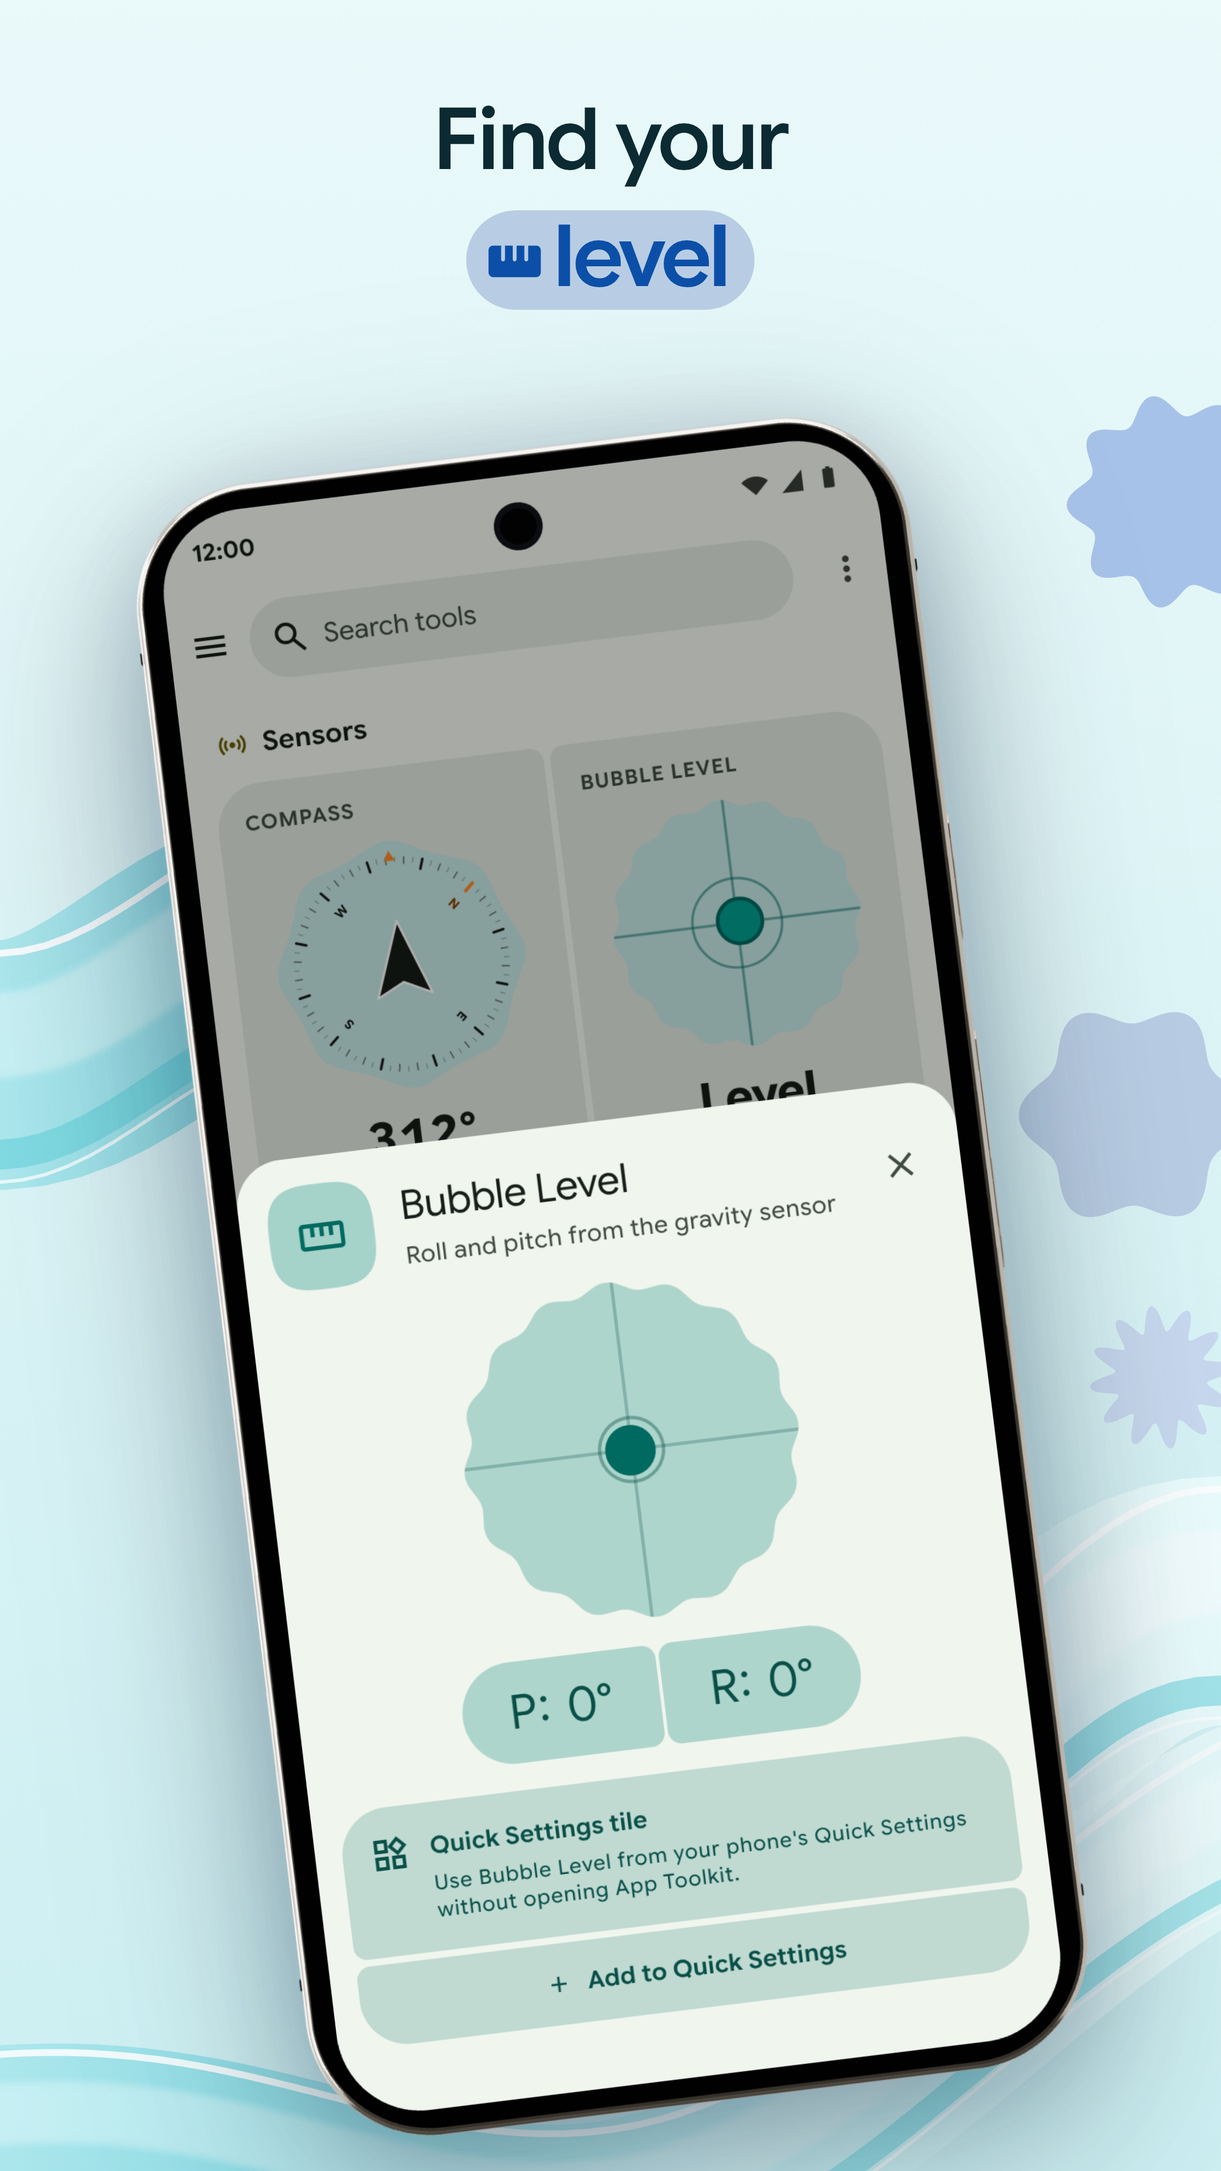
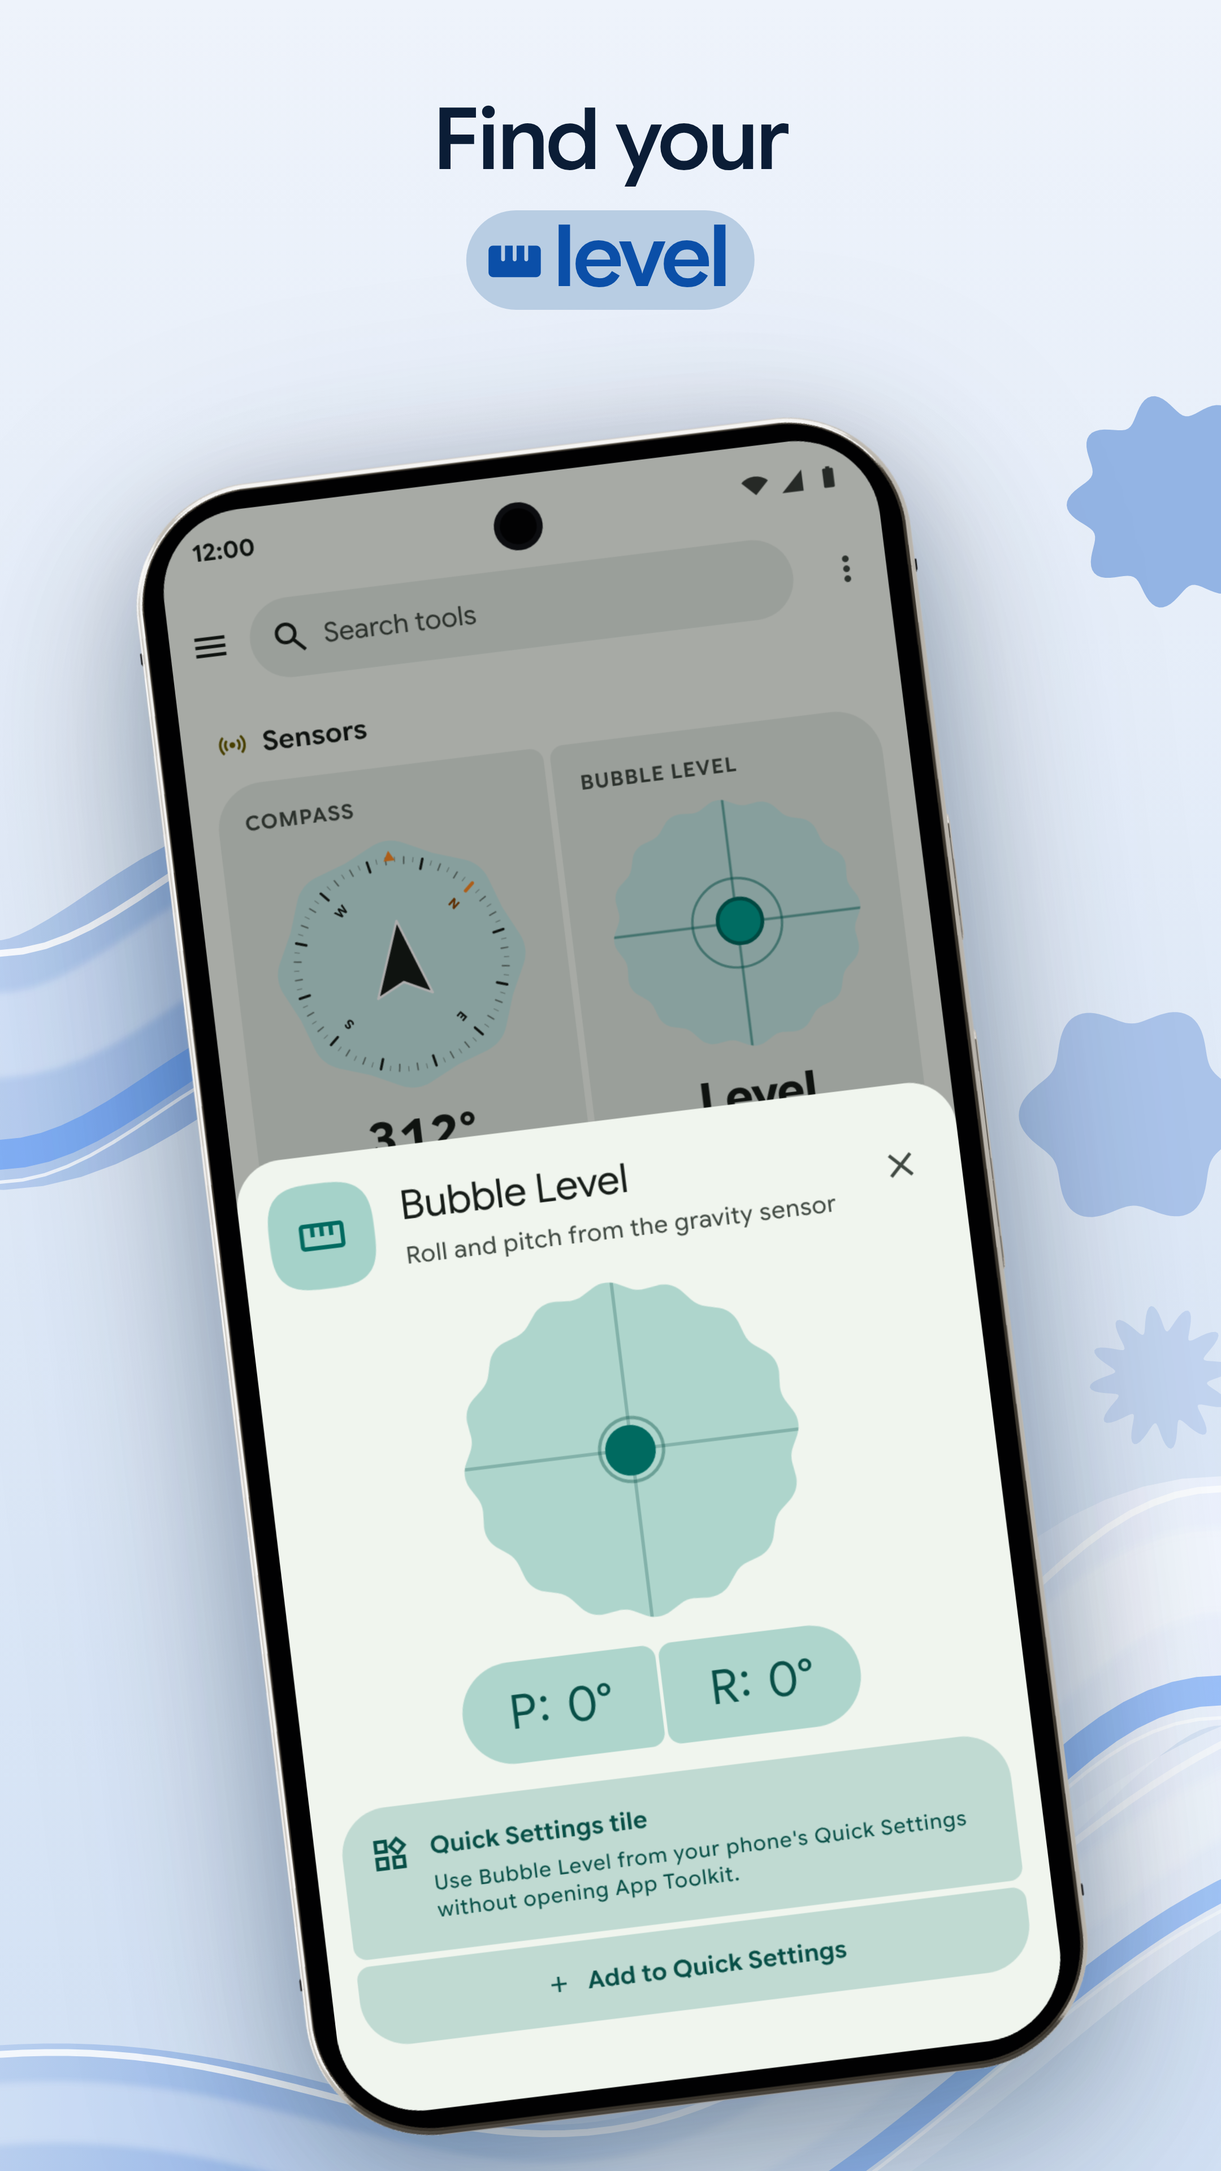
Speaker Water Eject listing: whole palette from the Water Eject sheet's blues
Move the ground, the glass ribbons, the ink, the shapes, the sound and
the feature graphic from aqua to the blue family of the Water Eject
sheet (ToolkitTileVisuals.kt's blue tool), with every campaign colour
now defined once in src/theme.ts and the verifier reading the field
from it. Re-rendered and re-verified all graphics: no hard failures,
caption contrast at least 12.5:1, interference at most 0.02%.

Claude-Session: https://claude.ai/code/session_01EEYGaFXbmvKJrEAo9apjWh

diff --git a/marketing/creative/store/google-play/listings/custom/speaker-water-eject/source/src/Glass.tsx b/marketing/creative/store/google-play/listings/custom/speaker-water-eject/source/src/Glass.tsx
@@ -1,17 +1,18 @@
 import React from "react";
 import { FADE, ribbonLines } from "./composition/ribbons";
+import { BUBBLE_TINT, FIELD, RIBBON_EDGE, RIBBON_STOPS, SHEET_BLUE, SHEET_BLUE_BRIGHT } from "./theme";
 export { ribbonLines };
 
 /** A box the ribbons fade behind, in the strip's coordinates. */
 export type TextBox = { left: number; top: number; right: number; bottom: number };
 
 /**
- * The campaign's ground: a light aqua field crossed by ribbons of liquid glass, the way Material 3's
- * own hero art draws them. Each ribbon is a wide translucent band whose colour shifts between aqua
- * and white along its length, with a bright rim and a cyan refracting edge. The ribbons are
+ * The campaign's ground: a light field in the Water Eject sheet's blues crossed by ribbons of liquid glass,
+ * the way Material 3's own hero art draws them. Each ribbon is a wide translucent band whose colour shifts
+ * between blue and white along its length, with a bright rim and a blue refracting edge. The ribbons are
  * computed across the whole strip, so every seam between two screenshots meets.
  */
-export const Glass: React.FC<{ width: number; height: number; panels: number; id?: string; text?: TextBox[]; ribbons?: boolean; field?: [string, string] }> = ({ width, height, panels, id = "g", text = [], ribbons: withRibbons = true, field = ["#EAF9FA", "#CDEFF2"] }) => {
+export const Glass: React.FC<{ width: number; height: number; panels: number; id?: string; text?: TextBox[]; ribbons?: boolean; field?: [string, string] }> = ({ width, height, panels, id = "g", text = [], ribbons: withRibbons = true, field = FIELD }) => {
   const panel = width / panels;
   const ribbons = (withRibbons ? ribbonLines(width, height, panels) : []).map((r) => ({ d: `M ${r.pts.map(([x, y]) => `${x},${y.toFixed(1)}`).join(" L ")}`, w: r.w, o: r.o }));
   return (
@@ -22,10 +23,10 @@ export const Glass: React.FC<{ width: number; height: number; panels: number; id
           <stop offset="1" stopColor={field[1]} />
         </linearGradient>
         <linearGradient id={`${id}-iris`} x1="0" y1="0" x2={panel * 1.4} y2="0" gradientUnits="userSpaceOnUse" spreadMethod="reflect">
-          <stop offset="0" stopColor="#8FE6EC" />
-          <stop offset=".45" stopColor="#F4FFFF" />
-          <stop offset=".75" stopColor="#B9EEF2" />
-          <stop offset="1" stopColor="#6FD3DE" />
+          <stop offset="0" stopColor={RIBBON_STOPS[0]} />
+          <stop offset=".45" stopColor={RIBBON_STOPS[1]} />
+          <stop offset=".75" stopColor={RIBBON_STOPS[2]} />
+          <stop offset="1" stopColor={RIBBON_STOPS[3]} />
         </linearGradient>
         <filter id={`${id}-soft`}><feGaussianBlur stdDeviation="3" /></filter>
         {text.length > 0 && (
@@ -44,9 +45,9 @@ export const Glass: React.FC<{ width: number; height: number; panels: number; id
       <g mask={text.length ? `url(#${id}-text)` : undefined}>
       {ribbons.map((r, i) => (
         <g key={i} opacity={r.o}>
-          {/* The glass band, a cyan edge where it refracts, a broad soft sheen and two sharp white rims. */}
+          {/* The glass band, a blue edge where it refracts, a broad soft sheen and two sharp white rims. */}
           <path d={r.d} fill="none" stroke={`url(#${id}-iris)`} strokeWidth={r.w} strokeLinecap="round" opacity=".8" />
-          <path d={r.d} fill="none" stroke="#3FC6D3" strokeWidth={r.w * 0.12} transform={`translate(0 ${r.w * 0.36})`} opacity=".45" />
+          <path d={r.d} fill="none" stroke={RIBBON_EDGE} strokeWidth={r.w * 0.12} transform={`translate(0 ${r.w * 0.36})`} opacity=".45" />
           <path d={r.d} fill="none" stroke="#FFFFFF" strokeWidth={r.w * 0.34} strokeLinecap="round" transform={`translate(0 ${-r.w * 0.12})`} opacity=".35" filter={`url(#${id}-soft)`} />
           <path d={r.d} fill="none" stroke="#FFFFFF" strokeWidth="6" transform={`translate(0 ${-r.w * 0.45})`} opacity=".95" />
           <path d={r.d} fill="none" stroke="#FFFFFF" strokeWidth="3" transform={`translate(0 ${r.w * 0.47})`} opacity=".8" />
@@ -67,7 +68,7 @@ export const SoundBubbles: React.FC<{ arcs: { pts: number[][]; ring: number }[];
     <defs>
       <radialGradient id="sound-bubble" cx=".5" cy=".5" r=".5">
         <stop offset=".62" stopColor="#FFFFFF" stopOpacity=".08" />
-        <stop offset=".9" stopColor="#9DBDF0" stopOpacity=".6" />
+        <stop offset=".9" stopColor={BUBBLE_TINT} stopOpacity=".6" />
         <stop offset="1" stopColor="#FFFFFF" stopOpacity=".95" />
       </radialGradient>
       <filter id="sound-glow" x="-20%" y="-20%" width="140%" height="140%"><feGaussianBlur stdDeviation="4" /></filter>
@@ -76,14 +77,14 @@ export const SoundBubbles: React.FC<{ arcs: { pts: number[][]; ring: number }[];
       const d = `M ${pts.map((p) => p.map((n) => n.toFixed(1)).join(" ")).join(" L ")}`, fade = 1 - i * 0.15;
       return (
         <g key={key} opacity={fade}>
-          <path d={d} fill="none" stroke="#2D7DF6" strokeWidth={7} strokeLinecap="round" opacity=".16" filter="url(#sound-glow)" />
-          <path d={d} fill="none" stroke="#0B4FA8" strokeWidth={Math.max(1.4, 2.6 - i * 0.3)} strokeLinecap="round" opacity=".5" />
+          <path d={d} fill="none" stroke={SHEET_BLUE_BRIGHT} strokeWidth={7} strokeLinecap="round" opacity=".16" filter="url(#sound-glow)" />
+          <path d={d} fill="none" stroke={SHEET_BLUE} strokeWidth={Math.max(1.4, 2.6 - i * 0.3)} strokeLinecap="round" opacity=".5" />
         </g>
       );
     })}
     {bubbles.map(([x, y, r], i) => (
       <g key={i}>
-        <circle cx={x} cy={y} r={r} fill="url(#sound-bubble)" stroke="#2D7DF6" strokeOpacity=".65" strokeWidth={Math.max(1.5, r * 0.09)} />
+        <circle cx={x} cy={y} r={r} fill="url(#sound-bubble)" stroke={SHEET_BLUE_BRIGHT} strokeOpacity=".65" strokeWidth={Math.max(1.5, r * 0.09)} />
         <ellipse cx={x - r * 0.36} cy={y - r * 0.4} rx={r * 0.26} ry={r * 0.16} fill="#FFFFFF" transform={`rotate(-35 ${x - r * 0.36} ${y - r * 0.4})`} />
         <path d={`M ${x + r * 0.55} ${y + r * 0.2} A ${r * 0.7} ${r * 0.7} 0 0 1 ${x + r * 0.1} ${y + r * 0.62}`} fill="none" stroke="#FFFFFF" strokeWidth={Math.max(1.2, r * 0.08)} strokeOpacity=".85" strokeLinecap="round" />
       </g>

diff --git a/marketing/creative/store/google-play/listings/custom/speaker-water-eject/source/src/FeatureGraphic.tsx b/marketing/creative/store/google-play/listings/custom/speaker-water-eject/source/src/FeatureGraphic.tsx
@@ -4,7 +4,7 @@ import { LitScreen, useFonts } from "./LitScreen";
 import { SCREENS } from "./screens";
 import { Glass, SoundBubbles } from "./Glass";
 import { STRINGS } from "./strings";
-import { FONT, INK, SHEET_BLUE, SHEET_BLUE_BRIGHT, SHEET_BLUE_CONTAINER } from "./theme";
+import { FIELD_DEEP, FONT, INK, RIBBON_STOPS, SHEET_BLUE, SHEET_BLUE_BRIGHT } from "./theme";
 
 const W = 1024, H = 500;
 /** Play may crop the edges: essential content stays inside the middle, 10% in from each side. */
@@ -40,10 +40,10 @@ const Ribbon: React.FC<{ d: string }> = ({ d }) => (
   <svg aria-hidden width={W} height={H} style={{ position: "absolute", inset: 0, pointerEvents: "none" }}>
     <defs>
       <linearGradient id="fg-ribbon" x1="0" y1="0" x2={W} y2="0" gradientUnits="userSpaceOnUse">
-        <stop offset="0" stopColor="#8FE6EC" />
-        <stop offset=".45" stopColor="#F4FFFF" />
-        <stop offset=".8" stopColor={SHEET_BLUE_CONTAINER} />
-        <stop offset="1" stopColor="#9DBDF0" />
+        <stop offset="0" stopColor={RIBBON_STOPS[0]} />
+        <stop offset=".45" stopColor={RIBBON_STOPS[1]} />
+        <stop offset=".8" stopColor={RIBBON_STOPS[2]} />
+        <stop offset="1" stopColor={RIBBON_STOPS[3]} />
       </linearGradient>
     </defs>
     <path d={d} fill="none" stroke="url(#fg-ribbon)" strokeWidth="150" strokeLinecap="round" opacity=".85" />
@@ -89,8 +89,8 @@ export const FeatureGraphic: React.FC<{ locale: string; concept?: Concept }> = (
     const textBox = { left: 230, top: 150, right: 794, bottom: 352 };
     return (
       <AbsoluteFill ref={ref} style={{ fontFamily: FONT, overflow: "hidden" }}>
-        {/* One aqua step deeper than the screenshots' ground, so the graphic holds its edge on a white page. */}
-        <Glass id="feature" width={W} height={H} panels={1} ribbons={false} field={["#D3F0F3", "#B5E4EA"]} />
+        {/* One step deeper than the screenshots' ground, so the graphic holds its edge on a white page. */}
+        <Glass id="feature" width={W} height={H} panels={1} ribbons={false} field={FIELD_DEEP} />
         <div style={{ position: "absolute", inset: 0, WebkitMaskImage: `radial-gradient(ellipse 330px 150px at 512px 250px, rgba(0,0,0,.12) 60%, #000 100%)`, maskImage: `radial-gradient(ellipse 330px 150px at 512px 250px, rgba(0,0,0,.12) 60%, #000 100%)` }}>
           <Ribbon d={ribbon} />
         </div>
@@ -107,8 +107,8 @@ export const FeatureGraphic: React.FC<{ locale: string; concept?: Concept }> = (
   const c = { x: 318, y: 250 }, d = 196;
   return (
     <AbsoluteFill ref={ref} style={{ fontFamily: FONT, overflow: "hidden" }}>
-      {/* One aqua step deeper than the screenshots' ground, so the graphic holds its edge on a white page. */}
-      <Glass id="feature" width={W} height={H} panels={1} text={[{ left: 476, top: 150, right: 900, bottom: 350 }]} field={["#D3F0F3", "#B5E4EA"]} />
+      {/* One step deeper than the screenshots' ground, so the graphic holds its edge on a white page. */}
+      <Glass id="feature" width={W} height={H} panels={1} text={[{ left: 476, top: 150, right: 900, bottom: 350 }]} field={FIELD_DEEP} />
       <div style={{ position: "absolute", inset: 0, zIndex: 1 }}>
         <SoundBubbles arcs={arcs(c.x, c.y, 180, [d / 2 + SPACE.s, d / 2 + SPACE.l, d / 2 + SPACE.xl], 46)} bubbles={[[c.x - 205, c.y - 92, 10], [c.x - 172, c.y + 118, 6], [c.x - 232, c.y + 34, 5], [c.x + 40, c.y - 150, 7]]} width={W} height={H} />
       </div>

diff --git a/marketing/creative/store/google-play/listings/custom/speaker-water-eject/source/src/theme.ts b/marketing/creative/store/google-play/listings/custom/speaker-water-eject/source/src/theme.ts
@@ -1,13 +1,23 @@
-// The Water Eject campaign: a light aqua glass ground (src/Glass.tsx) with accents in the Water Eject sheet's
-// own blues. The app's UI keeps its own colours; the campaign owns the ground, the ink, the caption pill
-// and the decoration.
-export const INK = "#0B2A31";
-// The sheet's blues, from ToolkitTileVisuals.kt's blue tool as the kit draws it: its content blue (the
-// Start button and icon), the brighter container blue, and the water visual's container fill.
+// The Water Eject campaign takes its whole palette from the Water Eject sheet (ToolkitTileVisuals.kt's blue
+// tool, as the kit draws it): its content blue (the Start button and icon), its brighter container blue and
+// the water visual's container fill, with the ground, the glass ribbons, the ink and the decoration all in
+// that blue family. The app's UI keeps its own colours.
 export const SHEET_BLUE = "#0B4FA8";
 export const SHEET_BLUE_BRIGHT = "#2D7DF6";
 export const SHEET_BLUE_CONTAINER = "#B8CDE3";
+/** Headlines: a deep navy from the same family. */
+export const INK = "#0B1D36";
 export const PILL = SHEET_BLUE_CONTAINER;
 export const ON_PILL = SHEET_BLUE;
+/** The ground, top to bottom; the feature graphic uses the deeper pair so it holds its edge on a white page. */
+export const FIELD: [string, string] = ["#EEF3FB", "#D2E1F4"];
+export const FIELD_DEEP: [string, string] = ["#DCE7F7", "#BED3EF"];
+/** The glass ribbons: a band shading through these, a refracting edge and white rims. */
+export const RIBBON_STOPS = ["#9CBDEB", "#F6F9FF", "#C9DAF2", "#7EA6E3"];
+export const RIBBON_EDGE = SHEET_BLUE_BRIGHT;
+/** MaterialShapes, and the large one drawn behind a phone. */
+export const SHAPE_TONES = ["#C3D5F0", "#ABC4EA", "#93B4E4"];
+export const SHAPE_BEHIND = "#D6E3F6";
+export const BUBBLE_TINT = "#9DBDF0";
 export const FONT = "'Google Sans Flex', sans-serif";
 export const PALETTE = "captured";

diff --git a/marketing/creative/store/google-play/listings/custom/speaker-water-eject/source/src/composition/effects.ts b/marketing/creative/store/google-play/listings/custom/speaker-water-eject/source/src/composition/effects.ts
@@ -5,6 +5,7 @@
 import { GOLDEN, PHI, SAFE_X, SPACE, TEXT_CLEARANCE, W, H, distanceTo, grow, inside } from "./geometry.ts";
 import type { Box, Measured, Pt } from "./geometry.ts";
 import type { Ribbon } from "./ribbons.ts";
+import { SHAPE_BEHIND, SHAPE_TONES } from "../theme.ts";
 
 const rad = (d: number) => (d * Math.PI) / 180;
 
@@ -62,7 +63,7 @@ export type Piece = { name: string; x: number; y: number; size: number; color: s
 
 /** The MaterialShapes the other listings scatter, in tones of the Water Eject sheet's blues. */
 const SHAPE_NAMES = ["cookie_9sided", "flower", "clover_4leaf", "soft_burst", "gem", "pill", "sunny", "cookie_6sided"];
-const SHAPE_COLORS = ["#C7D8EE", "#B8CDE3", "#A7C2E8"];
+const SHAPE_COLORS = SHAPE_TONES;
 
 /**
  * How a screenshot's shapes are placed. `big` puts one shape behind the phones, centred at `at` but moved
@@ -92,7 +93,7 @@ export const placeShapes = (plan: ShapePlan, phones: Obstacle[], caption: Box | 
     for (let size = plan.big.max; size >= plan.big.min; size -= SPACE.xs) {
       const r = size / 2, cx = Math.min(Math.max(ax, edges.left ? -Infinity : r), edges.right ? Infinity : W_ - r);
       if (clearOfRibbons(cx, ay, r) && clearOfText(cx, ay, r)) {
-        pieces.push({ name: "cookie_12sided", x: cx - r, y: ay - r, size, color: "#D3E1F3", rotate: 12, behind: true });
+        pieces.push({ name: "cookie_12sided", x: cx - r, y: ay - r, size, color: SHAPE_BEHIND, rotate: 12, behind: true });
         break;
       }
     }

diff --git a/marketing/creative/store/google-play/listings/custom/speaker-water-eject/README.md b/marketing/creative/store/google-play/listings/custom/speaker-water-eject/README.md
@@ -14,7 +14,7 @@ The keywords describe intent, not measured demand. The prior Play reports did no
 
 ## Creative direction
 
-Five screenshots read as one panorama in the language of Material 3's own hero art: a light aqua field crossed by ribbons of liquid glass in aqua and white, computed across the whole strip so every seam meets, and fading behind each caption so the letters sit on a quiet field. Accents take the Water Eject sheet's own blues (ToolkitTileVisuals.kt's blue tool): the caption pill, the MaterialShapes, the sound arcs and the bubbles. Headlines are dark on the light field. Phones are Material-Next's porcelain 3D Pixel 9 Pro XL. On every water screen, phone and large screen alike, Quick Tools is scrolled to the Water Eject card that opens the sheet, so the card shows above it instead of Compass and Bubble Level, which have their own screenshot. Every image shows a different screen or state, with its own composition, and stands on its own: no phone crosses a divider.
+Five screenshots read as one panorama in the language of Material 3's own hero art. The whole palette comes from the Water Eject sheet's own blues (ToolkitTileVisuals.kt's blue tool, src/theme.ts): a light blue field crossed by ribbons of blue and white liquid glass, computed across the whole strip so every seam meets and fading behind each caption so the letters sit on a quiet field; the caption pill, MaterialShapes, sound arcs and bubbles in the same family; headlines in a deep navy. Phones are Material-Next's porcelain 3D Pixel 9 Pro XL. On every water screen, phone and large screen alike, Quick Tools is scrolled to the Water Eject card that opens the sheet, so the card shows above it instead of Compass and Bubble Level, which have their own screenshot. Every image shows a different screen or state, with its own composition, and stands on its own: no phone crosses a divider.
 
 Each composition is solved from its own targets by source/scripts/solve-layout.ts and checked by source/scripts/verify.mjs; see source/README.md for the system, its hard rules and its preferences, and review/ for the contact sheets and the verification report.
 
@@ -26,7 +26,7 @@ Each composition is solved from its own targets by source/scripts/solve-layout.t
 
 Tablet and desktop screenshots show the app's own large-screen layouts on the Pixel 9 Pro Fold and the Pixelbook Go, each centred at true size with no captions, as Play asks, and MaterialShapes placed by the same system clear of the device and the ribbons.
 
-The feature graphic names the feature and says what it is, "Water Eject" over "A short tone for wet speakers", with App Toolkit small above, centred on a deeper aqua field with a glass ribbon in the sheet's blues flowing through it and a little sound rising off its crest. It has no device frame, no icon, no 165 Hz or 30 seconds and no claims. A second concept (the real drop visual with sound spreading from it) stays in source/src/FeatureGraphic.tsx as `ripple`; `node scripts/preview-feature.mjs` renders both, at half size on light and dark backgrounds.
+The feature graphic names the feature and says what it is, "Water Eject" over "A short tone for wet speakers", with App Toolkit small above, centred on a deeper blue field with a glass ribbon in the sheet's blues flowing through it and a little sound rising off its crest. It has no device frame, no icon, no 165 Hz or 30 seconds and no claims. A second concept (the real drop visual with sound spreading from it) stays in source/src/FeatureGraphic.tsx as `ripple`; `node scripts/preview-feature.mjs` renders both, at half size on light and dark backgrounds.
 
 The guidance and its limits are on every Water Eject screen and in the description. Tablet, desktop and feature artwork share the glass ribbons. No image promises a repair or shows a successful water-removal result.
 
